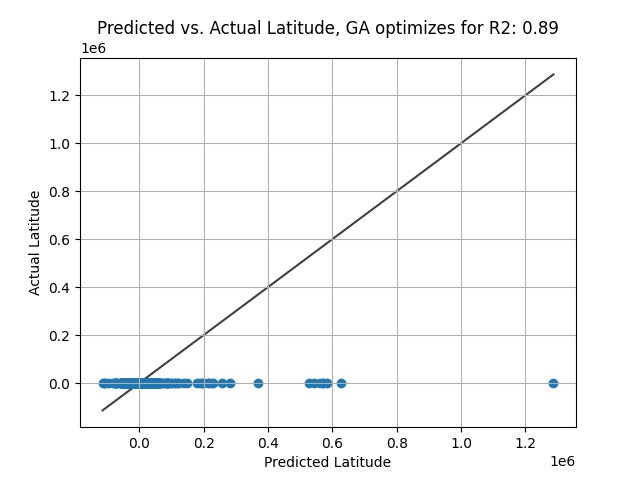
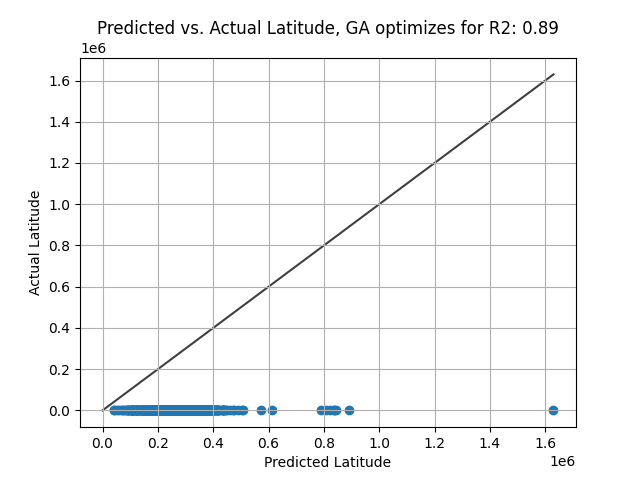
Test

diff --git a/lat_pred_mlr.py b/lat_pred_mlr.py
@@ -80,33 +80,19 @@ def import_coordinates(validation_df, meta_df) :
     return df
 
 def make_prediction(best_model, df):
-    # Ensure 'df' is your prepared DataFrame with the same feature columns used during model training
-
-    # Select the columns based on your model's feature importance or coefficients
-
     selected_columns = [col for col in df.columns if col in best_model[2]]
-    validation_data = df[selected_columns]
-    #print(len(best_model[2]))
-    #print(len(validation_data.columns))
-    #sys.exit()
-    # Initialize a new Linear Regression model
+    validation_data = df[selected_columns].values  # Convert to numpy array to avoid feature name issues
+
     model = LinearRegression()
 
-     
- 
-    # Assuming best_model[3] is the list of coefficients and best_model[4] is the intercept
-    # Make sure that the length of selected_columns matches the number of coefficients
     if len(selected_columns) != len(best_model[3]):
         raise ValueError("The number of selected features does not match the number of coefficients.")
 
-
-    model.coef_ = np.array(best_model[3])
-    model.intercept_ = best_model[4]
-
-  
-    # Print shapes to debug
-    print("Validation data shape:", validation_data.shape)
-    print("Coefficients shape:", model.coef_.shape)
+    # Dummy fitting
+    dummy_X = np.zeros((len(best_model[3]), len(best_model[3])))
+    np.fill_diagonal(dummy_X, 1)
+    dummy_y = np.dot(dummy_X, best_model[3]) + best_model[4]
+    model.fit(dummy_X, dummy_y)
 
     # Making predictions
     predictions = model.predict(validation_data)
